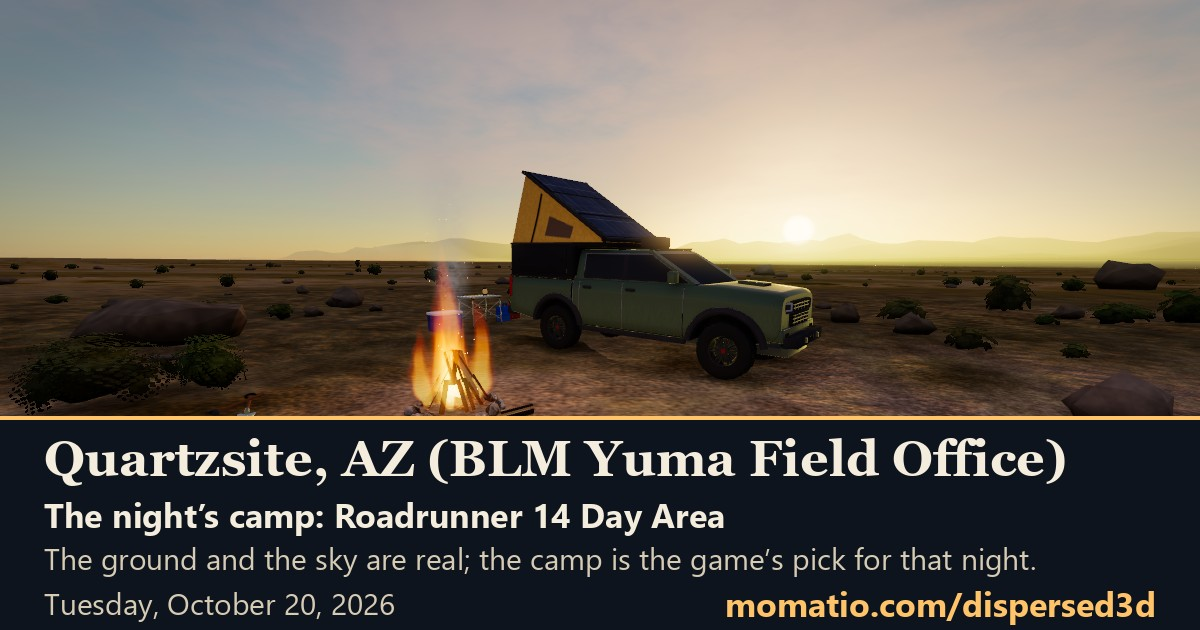
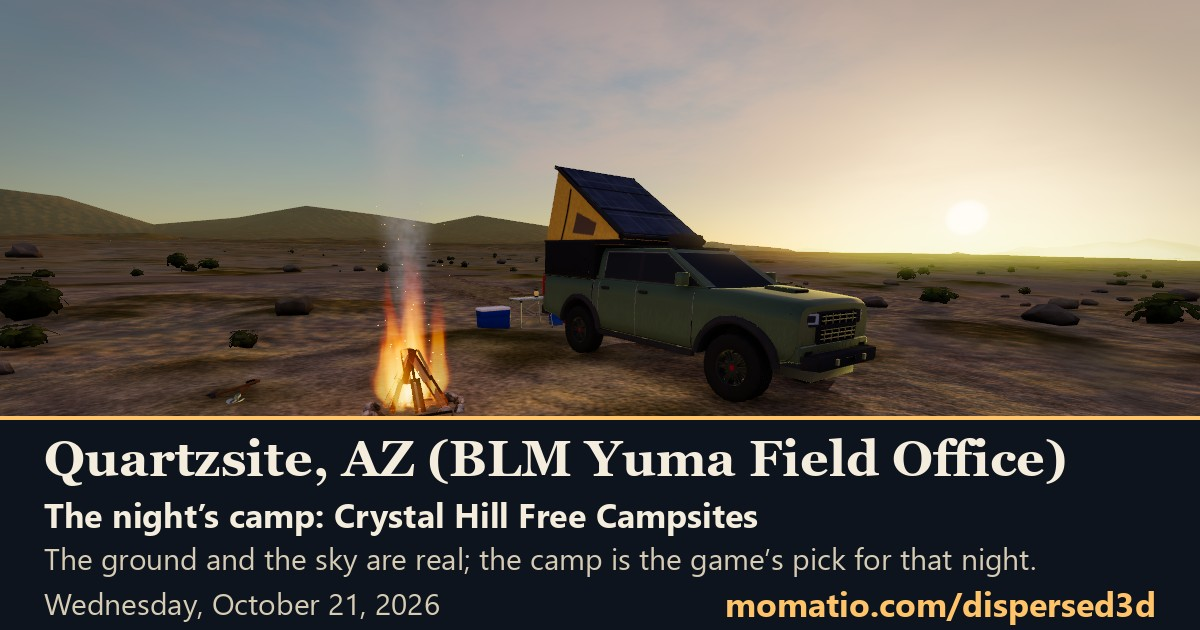
10/21 early morning: a driver's seat that feels like one
Claude-Session: https://claude.ai/code/session_01JJzT1DsoBWtYVWVcn1Rthj

diff --git a/README.md b/README.md
@@ -33,14 +33,11 @@ This is a game laid over real places, and the real places do most of the work. H
 
 ## What's new
 
-**October 20, 2026, evening: A clear windshield while you drive, and map squares like a paper map**
+**October 21, 2026, early morning: A driver's seat that feels like one**
 
-- Enjoy the ride is now the game's way for everyone: once you're rolling the screen clears, and a small arrow with the miles points to your camp
-- The readings drop in when you ask: drag down from the top (or press I) and the clock, light left, fuel, water and miles to go show for a few seconds, then put themselves away
-- Camp names wait until you ask for them: press Names (N on a computer)
-- The map has squares like a paper map, letters across and numbers down, and each camp's label carries its square
-- On a phone the letters and numbers sit outside the map's edge, so the map itself stays clear
-- The title's Start button now says Play, which is what it does
+- The hood stays bolted to the truck and level, whichever way you look
+- From the driver's seat you can turn your head to either side window and nod a little, but not stare at the ground; on foot you can still look anywhere, all the way around and down at your feet
+- Moving the mouse to a button or a panel no longer swings the view on the way there: the view turns when the cursor rests near an edge
 
 [Every release, in the changelog](https://github.com/davelalande/dispersed3d-progress/blob/main/CHANGELOG.md)
 

diff --git a/CHANGELOG.md b/CHANGELOG.md
@@ -2,6 +2,12 @@
 
 Every release of the live game, newest first. Play it at **[momatio.com/dispersed3d](https://momatio.com/dispersed3d/)**.
 
+## October 21, 2026, early morning: A driver's seat that feels like one
+
+- The hood stays bolted to the truck and level, whichever way you look
+- From the driver's seat you can turn your head to either side window and nod a little, but not stare at the ground; on foot you can still look anywhere, all the way around and down at your feet
+- Moving the mouse to a button or a panel no longer swings the view on the way there: the view turns when the cursor rests near an edge
+
 ## October 20, 2026, evening: A clear windshield while you drive, and map squares like a paper map
 
 - Enjoy the ride is now the game's way for everyone: once you're rolling the screen clears, and a small arrow with the miles points to your camp
